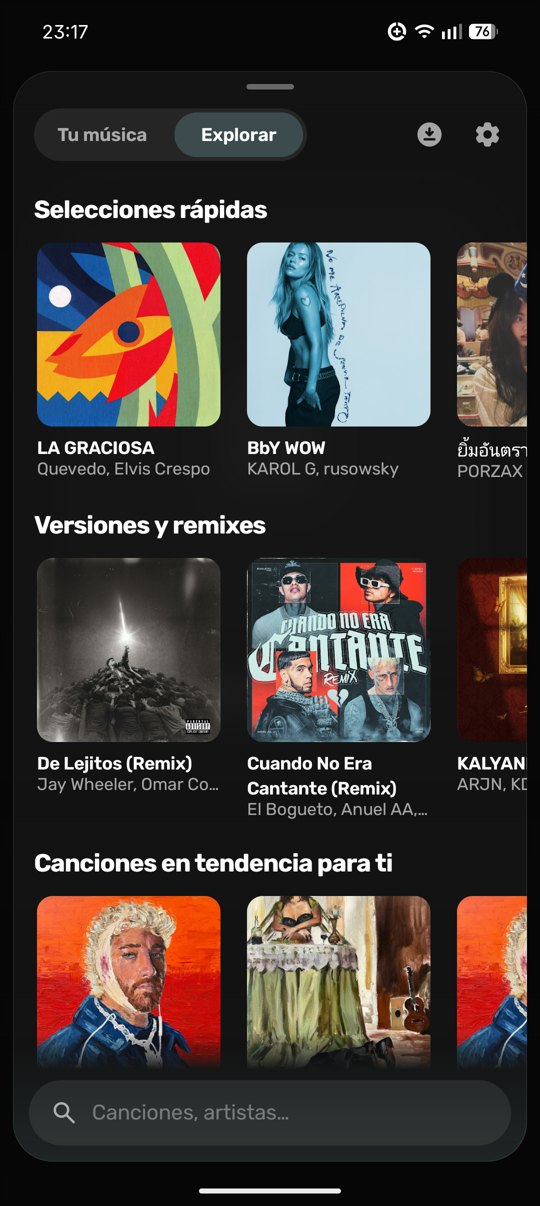
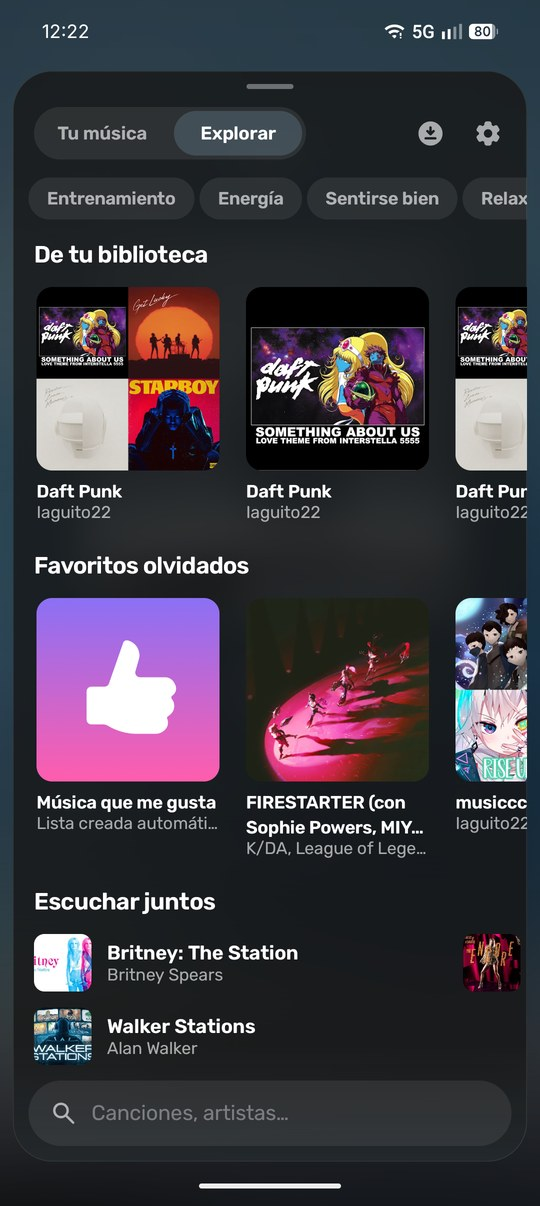
README: capturas del Menú nuevo (Tu música, Todas tus listas, Explorar, Buscar)

diff --git a/README.md b/README.md
@@ -18,11 +18,16 @@ Reproductor de música para Android sobre YouTube Music, sin pestañas ni botone
   <img src="docs/library.jpg" width="200" alt="Tu música">
   <img src="docs/settings.jpg" width="200" alt="Ajustes">
 </p>
+<p align="center">
+  <img src="docs/listas.jpg" width="200" alt="Todas tus listas">
+  <img src="docs/explorar.jpg" width="200" alt="Explorar, con los ánimos arriba">
+  <img src="docs/buscar.jpg" width="200" alt="Buscar, con el resultado principal en grande">
+</p>
 
 ## Qué tiene
 
 - **Letra sincronizada palabra a palabra** cuando la fuente lo trae, con los coros aparte y la pronunciación debajo del japonés, chino, coreano o cirílico. Se busca en cuanto empieza la canción y se guarda en el móvil: abrirla es al momento.
-- **Tus listas y carpetas**, con Me gusta y el DJ. Se fijan arriba y se recolocan arrastrando («Mover», manteniendo cualquiera).
+- **Tus listas y carpetas**, con Me gusta y el DJ. Se fijan arriba y se recolocan arrastrando («Mover», manteniendo cualquiera); las que has oído hace poco salen debajo, y todas en «Todas tus listas», con orden y filtros.
 - **Importar de Spotify** tus listas y tus me gusta, con la extensión de Spicetify de [`tools/spicetify`](tools/spicetify) (se instala pegando una línea).
 - **Cuenta de YouTube Music** (opcional): recomendaciones tuyas y una copia de tus listas en tu cuenta, que vuelven solas al reinstalar.
 - **DJ**: una mezcla continua de lo tuyo, lo que te falta de tus artistas y artistas nuevos, que aprende de cuánto te quedas con cada canción.
